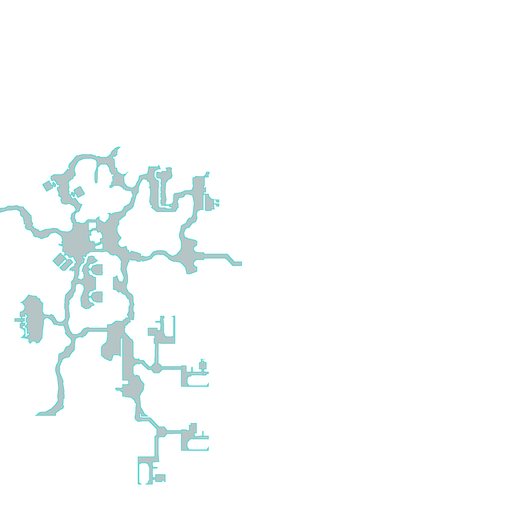
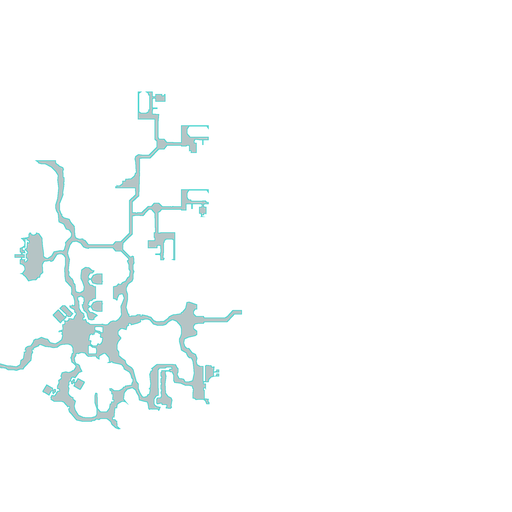
Correct navmesh world Y projection

Changed region(s): [[0.0, 0.1562, 0.4688, 0.9688]]

diff --git a/tools/generate_walkable_map.py b/tools/generate_walkable_map.py
@@ -302,7 +302,7 @@ def main() -> None:
                 for polygon in connected_component(
                     polygons,
                     seed_x,
-                    seed_y,
+                    -seed_y,
                     args.maximum_step,
                 )
             )
@@ -316,7 +316,7 @@ def main() -> None:
             [
                 (
                     (args.origin_x + vertex[0] * args.pixels_per_yalm) * scale,
-                    (args.origin_y - vertex[2] * args.pixels_per_yalm) * scale,
+                    (args.origin_y + vertex[2] * args.pixels_per_yalm) * scale,
                 )
                 for vertex in polygon
             ],

diff --git a/assets/maps/241.md b/assets/maps/241.md
@@ -16,14 +16,13 @@ python tools/generate_walkable_map.py \
   --origin-x 108.5 \
   --origin-y 288.0 \
   --pixels-per-yalm 0.80 \
-  --seed 15,0 \
-  --seed 5,-64
+  --seed 15,0
 ```
 
-The generator validates that both sources share an origin and keeps only
-Detour-connected components containing verified walkable seeds. `(15, 0)`
-selects the main network; `(5, -64)` selects a legitimate southern section
-separated by a model seam. It projects that polygon union through the verified
+The generator validates that both sources share an origin and keeps only the
+Detour-connected component containing the verified walkable `(15, 0)` seed.
+LandSandBoat Z is converted to Ashita world Y with `world_y = -nav_z` before
+seeding and projection. It projects that polygon union through the verified
 calibration, removes only tiny obstacle holes, and leaves true transparency
 outside the accessible fill.
 Labels and landmarks remain independent optional overlays. See

diff --git a/docs/MAP_CALIBRATION.md b/docs/MAP_CALIBRATION.md
@@ -80,6 +80,9 @@ separate structure, label, and landmark layers when the source permits it.
    from labels with `tools/split_map_layers.py`, then split known static
    landmark symbols from ordinary text. Every output must have identical
    dimensions and pixel coordinates.
+   LandSandBoat OBJ/nav coordinates use X directly but use Z opposite Ashita's
+   world Y: `world_x = nav_x` and `world_y = -nav_z`. Apply that conversion to
+   both seed coordinates and rendered vertices.
 5. Obtain the map's scale metadata. For known vanilla maps,
    `grid_yalms = map_scale_byte * 10`. Store the result per map; do not use a
    repository-wide default as calibration.
